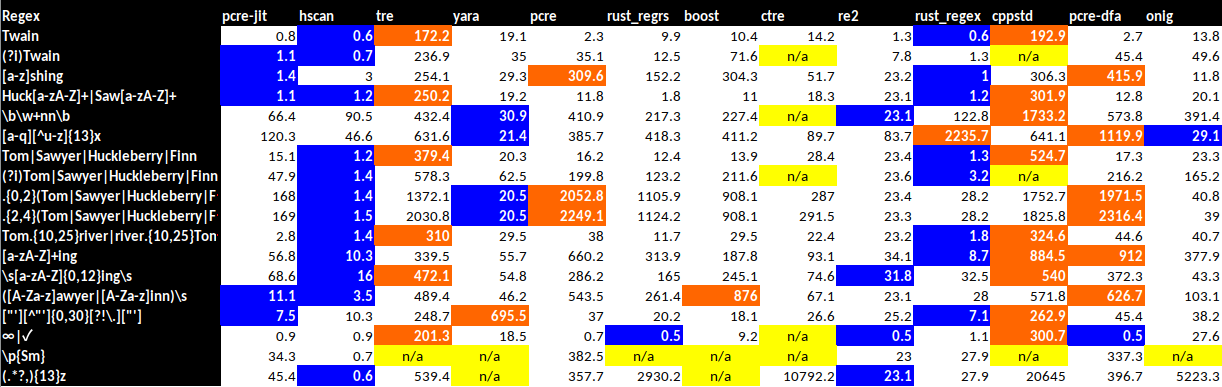
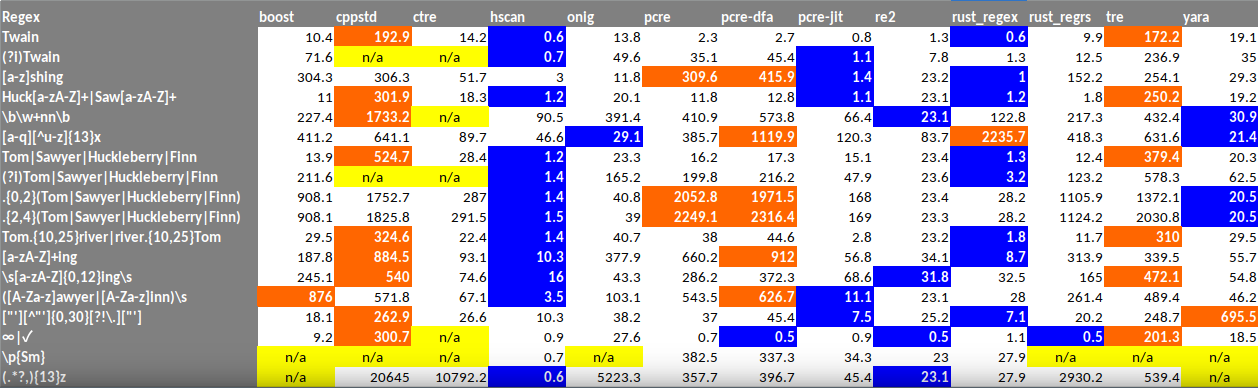
Better formatting on spreadsheets

diff --git a/genspreadsheet.py b/genspreadsheet.py
@@ -32,13 +32,13 @@ outfilename = "regex-results-%s.xlsx" % (nowstr,)
 workbook = xlsxwriter.Workbook(outfilename)
 worksheet = workbook.add_worksheet()
 worksheet.hide_gridlines(2)
-worksheet.set_column(0,0,30)
+worksheet.set_column(0,0,35)
 worksheet.set_column(1,len(scanners),10)
 worksheet.set_row(0,20)
 
 # Add a bold format to use to highlight cells.
 headerfmt = workbook.add_format({'bold': True})
-headerfmt.set_bg_color('black')
+headerfmt.set_bg_color('gray')
 headerfmt.set_font_color('white')
 headerfmt.set_rotation(0)
 highfmt = workbook.add_format({'bold': True})
@@ -53,7 +53,7 @@ warnfmt.set_font_color( 'black' )
 warnfmt.set_align('center')
 
 # Write headers.
-scanners = list(scanners)
+scanners = sorted(list(scanners))
 row = 0
 for col,scanner in enumerate(scanners):
     worksheet.write( row, col+1, scanner, headerfmt )

diff --git a/README.md b/README.md
@@ -126,8 +126,8 @@ cmake \
 
 These results were obtained in an AMD Threadripper 3960X (Zen2) at 3.8 GHz running Ubuntu 20.04.5 LTS. 
 
-![Updated Performance Results](results_20221012.png "Performance Results")
+![Updated Performance Results](results_threadripper.png "Performance Results")
 
-IceLake Xeon Platinum 8375C @ 2.90GHz (AWS C6i instance)
+IceLake Xeon Platinum 8375C @ 2.90GHz (AWS C6i instance) - no mitigations
 
 ![IceLake Server](results_icelake.png "Results Ice Lake")
